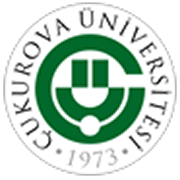
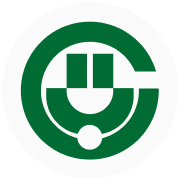
feat: Working on UI and branding.

diff --git a/components/menu-card.tsx b/components/menu-card.tsx
@@ -3,7 +3,7 @@
 import { useState, useEffect } from "react"
 import { Card } from "@/components/ui/card"
 import { Badge } from "@/components/ui/badge"
-import { ChevronRight, Bookmark, CirclePlus, CircleCheck, MessageSquare } from "lucide-react"
+import { ChevronRight, Bookmark, CirclePlus, CircleCheck, MessageSquare, Brain } from "lucide-react"
 import { motion } from "framer-motion"
 import {
     Table,
@@ -42,13 +42,6 @@ function ChatGptIcon({ className }: { className?: string }) {
     )
 }
 
-function MagicIcon({ className }: { className?: string }) {
-    return (
-        <svg xmlns="http://www.w3.org/2000/svg" viewBox="0 0 24 24" fill="currentColor" className={className}>
-            <path d="M17.0007 1.20825 18.3195 3.68108 20.7923 4.99992 18.3195 6.31876 17.0007 8.79159 15.6818 6.31876 13.209 4.99992 15.6818 3.68108 17.0007 1.20825ZM8.00065 4.33325 10.6673 9.33325 15.6673 11.9999 10.6673 14.6666 8.00065 19.6666 5.33398 14.6666.333984 11.9999 5.33398 9.33325 8.00065 4.33325ZM19.6673 16.3333 18.0007 13.2083 16.334 16.3333 13.209 17.9999 16.334 19.6666 18.0007 22.7916 19.6673 19.6666 22.7923 17.9999 19.6673 16.3333Z"></path>
-        </svg>
-    )
-}
 
 function ClaudeBrandIcon({ className }: { className?: string }) {
     return (
@@ -76,11 +69,15 @@ function PerplexityIcon({ className }: { className?: string }) {
 
 function KcalIcon({ className }: { className?: string }) {
     return (
-        <svg viewBox="0 0 500 500" fill="currentColor" xmlns="http://www.w3.org/2000/svg" className={className}>
-            <path d="M49.4038 233.672V4.7713H89.3809V105.359L164.821 4.7713H212.536L134.839 105.036L214.47 233.672H169.335L110.659 136.309L89.3809 164.035V233.672H49.4038Z" />
-            <path d="M349.966 234.037C329.258 234.037 311.068 229.28 295.397 219.765C279.726 209.971 267.553 196.398 258.878 179.048C250.202 161.418 245.865 140.85 245.865 117.343C245.865 93.8362 250.202 73.4078 258.878 56.0575C267.553 38.4275 279.726 24.8551 295.397 15.3405C311.068 5.54604 329.258 0.648799 349.966 0.648799C375.432 0.648799 396.7 7.78477 413.77 22.0567C431.12 36.0488 441.894 55.6378 446.092 80.8236L402.856 83.7619C399.498 69.7698 393.202 58.9959 383.967 51.4402C374.732 43.6046 363.538 39.6868 350.386 39.6868C331.357 39.6868 316.525 46.6828 305.891 60.6749C295.257 74.3872 289.94 93.2766 289.94 117.343C289.94 141.409 295.257 160.439 305.891 174.431C316.525 188.143 331.357 194.999 350.386 194.999C363.818 194.999 375.292 191.081 384.806 183.246C394.601 175.13 401.037 163.237 404.116 147.566L447.351 150.085C443.154 175.55 432.24 195.979 414.61 211.37C396.98 226.481 375.432 234.037 349.966 234.037Z" />
-            <path d="M118.706 500.726C104.714 500.726 92.121 498.207 80.9273 493.17C69.7336 488.133 60.7787 480.997 54.0625 471.762C47.6261 462.527 44.4079 451.753 44.4079 439.44C44.4079 420.411 50.1447 405.719 61.6182 395.365C73.3716 384.731 91.0016 377.035 114.508 372.278L186.708 357.167C186.708 322.466 171.596 305.116 141.373 305.116C127.381 305.116 116.467 308.334 108.632 314.771C100.796 321.207 95.4791 330.162 92.6807 341.635L48.1858 338.697C52.3834 317.429 62.5977 300.219 78.8285 287.066C95.0594 273.914 115.908 267.337 141.373 267.337C169.917 267.337 191.605 275.453 206.437 291.684C221.548 307.914 229.104 330.302 229.104 358.846V446.996C229.104 452.033 230.083 455.671 232.042 457.91C234.281 459.869 237.639 460.848 242.116 460.848H254.709V495.689C253.03 495.968 250.232 496.248 246.314 496.528C242.676 496.808 239.038 496.948 235.4 496.948C209.655 496.948 194.403 485.894 189.646 463.787C184.049 474.7 174.814 483.655 161.942 490.651C149.349 497.368 134.937 500.726 118.706 500.726ZM125.002 465.885C145.431 465.885 160.822 460.708 171.176 450.354C181.531 439.72 186.708 425.588 186.708 407.958V390.748L124.583 403.341C111.15 406.139 101.776 410.197 96.4586 415.514C91.1416 420.551 88.4831 427.407 88.4831 436.082C88.4831 445.597 91.7012 453.013 98.1376 458.33C104.574 463.367 113.529 465.885 125.002 465.885Z" />
-            <path d="M293.502 494.803V460.919H355.623V325.383C355.623 312.415 349.139 305.931 336.171 305.931H299.777V272.047H343.701C380.095 272.047 398.292 290.14 398.292 326.325V460.919H451.627V494.803H293.502Z" />
+        <svg viewBox="0 0 227 230" fill="none" xmlns="http://www.w3.org/2000/svg" className={className}>
+            <g clipPath="url(#clip0_77_65)">
+                <path d="M122.597 14.501C145.256 34.2684 185.189 77.9937 185.189 139.742C185.189 168.952 173.351 194.149 155.736 209.625C151.01 189.225 134.721 172.987 113.595 172.987C92.4689 172.987 76.1785 189.225 71.4521 209.625C53.8381 194.149 42 168.952 42 139.742C42 116.884 51.5247 98.2872 57.8594 88.4932C57.9048 88.5158 57.9578 88.5475 58.0166 88.5928L58.8711 89.25V89.251C78.1026 104.046 103.749 97.4523 115.833 76.541V76.54C120.279 68.8451 122.595 59.9165 122.595 50.8691V14.5713C122.595 14.5467 122.596 14.5232 122.597 14.501Z" stroke="currentColor" strokeWidth="20" />
+            </g>
+            <defs>
+                <clipPath id="clip0_77_65">
+                    <rect width="227" height="230" fill="white" />
+                </clipPath>
+            </defs>
         </svg>
     )
 }
@@ -357,6 +354,8 @@ export function MenuCard({ day, onMealClick }: MenuCardProps) {
                         variant="outline"
                         className="h-7 text-xs gap-1.5 px-2.5 border-border/40"
                         onClick={() => setShowComments(true)}
+                        aria-label="Yorumlar"
+                        title="Yorumlar"
                     >
                         <MessageSquare className="w-3.5 h-3.5" />
                         <span className="font-medium">Yorumlar</span>
@@ -379,7 +378,7 @@ export function MenuCard({ day, onMealClick }: MenuCardProps) {
                                 className="h-7 w-7 p-0 border-border/40 transition-colors"
                                 title="Menüyü yapay zekaya yorumlat"
                             >
-                                <MagicIcon className="w-3.5 h-3.5" />
+                                <Brain className="w-3.5 h-3.5" />
                             </Button>
                         </DropdownMenuTrigger>
                         <DropdownMenuContent align="start" className="w-48">
@@ -481,12 +480,7 @@ export function MenuCard({ day, onMealClick }: MenuCardProps) {
                                 title="Toplam Kalori"
                             >
                                 <KcalIcon
-                                    className={`w-4 h-4 ${day.totalCalories < 800
-                                        ? 'text-green-500'
-                                        : day.totalCalories < 1100
-                                            ? 'text-amber-500'
-                                            : 'text-red-500'
-                                        }`}
+                                    className={`w-3.5 h-3.5`}
                                 />
                             </Button>
                         </DropdownMenuTrigger>

diff --git a/app/menu-page.tsx b/app/menu-page.tsx
@@ -9,6 +9,7 @@ import { Header } from "@/components/header"
 import { MenuDataProvider } from "@/components/menu-data-provider"
 import { getTurkeyDate } from "@/lib/date-utils"
 import { useDayChange } from "@/hooks/use-day-change"
+import { X } from "lucide-react"
 
 import type { DateRange } from "react-day-picker"
 import type { MenuData } from "@/lib/types"
@@ -23,6 +24,20 @@ export default function MenuPage({ menuData }: { menuData: MenuData }) {
 
     const [selectedDateRange, setSelectedDateRange] = useState<DateRange | undefined>(undefined)
     const [selectedMeal, setSelectedMeal] = useState<{ id: string; name: string; calories: number } | null>(null)
+    const [showNotice, setShowNotice] = useState(false)
+
+    useEffect(() => {
+        const hiddenUntil = localStorage.getItem('hide-github-notice-until')
+        if (!hiddenUntil || new Date().getTime() > parseInt(hiddenUntil)) {
+            setShowNotice(true)
+        }
+    }, [])
+
+    const handleDismissNotice = () => {
+        setShowNotice(false)
+        const thirtyDaysFromNow = new Date().getTime() + 30 * 24 * 60 * 60 * 1000
+        localStorage.setItem('hide-github-notice-until', thirtyDaysFromNow.toString())
+    }
 
     // Find today's date or nearest available date for mobile initial view
     const findInitialDateIndex = (): number => {
@@ -136,6 +151,22 @@ export default function MenuPage({ menuData }: { menuData: MenuData }) {
 
             <div className="container mx-auto px-4 py-6 md:py-8">
 
+                {/* Notice Banner */}
+                {showNotice && (
+                    <div className="max-w-md mx-auto mb-4 relative">
+                        <button
+                            onClick={handleDismissNotice}
+                            className="absolute top-1 right-1 text-muted-foreground/60 hover:text-foreground transition-colors p-1.5 rounded-sm hover:bg-muted/50"
+                            aria-label="Kapat"
+                        >
+                            <X className="w-3 h-3" />
+                        </button>
+                        <p className="block border border-dashed border-border rounded-lg px-3 py-3 text-xs text-muted-foreground/80 bg-muted/20">
+                            Bu proje <a href="https://yemekhane.cu.edu.tr/" title="Çukurova Yemekhane" target="_blank" rel="noopener noreferrer nofollow" style={{ textDecoration: "underline" }}>Çukurova Üniversitesinden</a> bağımsız, tamamen gönüllü ve <a href="https://github.com/umutcandev/cukurova-yemekhane" title="Çukurova Yemekhane GitHub" target="_blank" rel="noopener noreferrer nofollow" style={{ textDecoration: "underline" }}>açık kaynak</a> geliştirilmektedir.
+                        </p>
+                    </div>
+                )}
+
                 {/* MenuDataProvider — favorites, calorie-goal, daily-log API çağrıları burada 1 kez yapılır */}
                 <MenuDataProvider>
                     {/* Mobile Menu View - Shows selected date(s) from mobile navigation */}
@@ -158,16 +189,6 @@ export default function MenuPage({ menuData }: { menuData: MenuData }) {
                         ) : null}
                     </section>
                 </MenuDataProvider>
-
-                {/* Ad Banner */}
-                <div className="max-w-md mx-auto mt-4">
-                    <p
-                        className="block border border-dashed border-border rounded-lg px-4 py-3 text-center text-xs text-muted-foreground/80 bg-muted/20"
-                    >
-                        Bu proje <a href="https://github.com/umutcandev" title="Umutcan GitHub" target="_blank" rel="noopener noreferrer" style={{ textDecoration: "underline" }}>@umutcandev</a> tarafından <a href="https://github.com/umutcandev/cukurova-yemekhane" title="Çukurova Yemekhane GitHub" target="_blank" rel="noopener noreferrer" style={{ textDecoration: "underline" }}>açık kaynak</a> geliştirilmektedir, yine de resmi yemekhane sitesini ziyaret etmek istiyorsanız <a href="https://yemekhane.cu.edu.tr" target="_blank" rel="noopener noreferrer nofollow" style={{ textDecoration: "underline" }}>tıklayınız.</a>
-                    </p>
-                </div>
-
             </div>
 
             {/* Mobile Bottom Navigation */}
